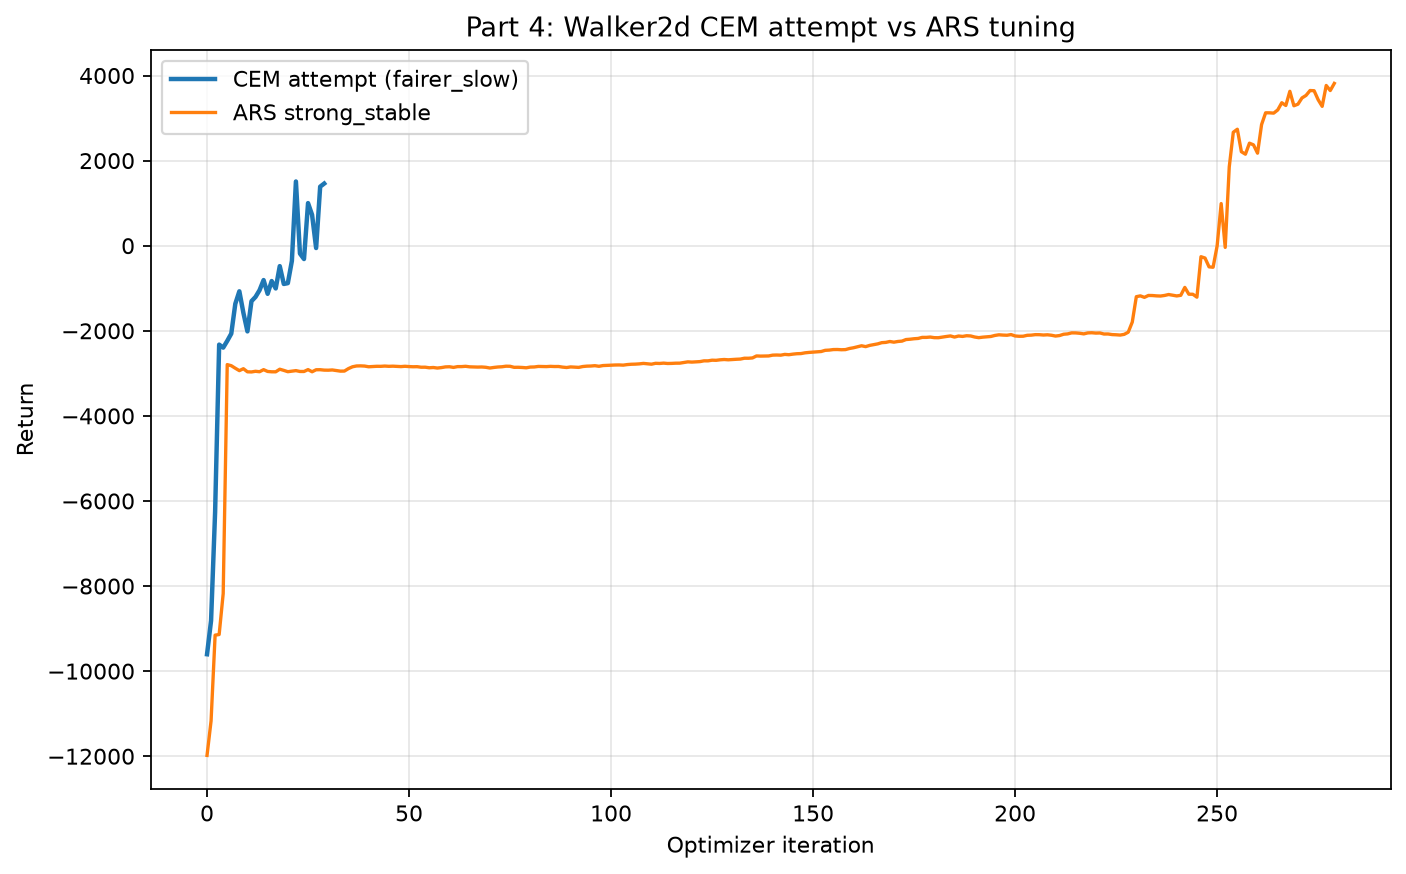
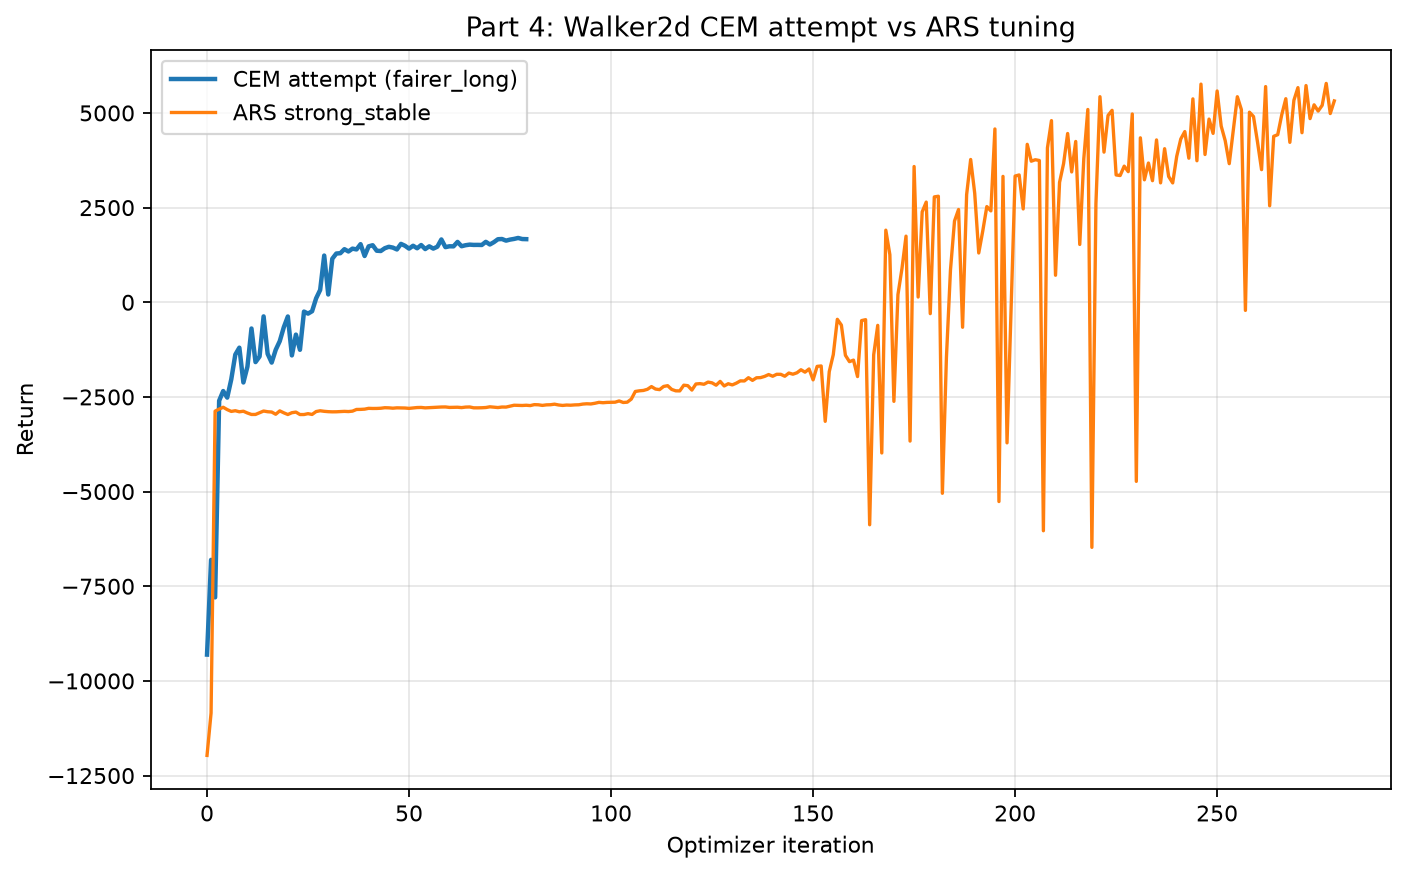
Update Deliverable 4 with long CEM results

diff --git a/Deliverable4/run_deliverable4_hpc.py b/Deliverable4/run_deliverable4_hpc.py
@@ -11,7 +11,7 @@ parser.add_argument(
     default="strong",
     choices=["smoke", "colab_balanced", "colab_sweep", "strong", "strong_stable", "strong_middle"],
     help="ARS tuning mode. Use smoke for a quick test, strong/strong_stable for HPC.")
-parser.add_argument("--cem-mode", default="fairer_slow", choices=["smoke", "extended_colab", "fairer_slow"],
+parser.add_argument("--cem-mode", default="fairer_slow", choices=["smoke", "extended_colab", "fairer_slow", "fairer_long"],
                     help="CEM baseline mode. fairer_slow is suitable for HPC.")
 parser.add_argument("--train-seconds", type=float, default=6.0, help="Training rollout duration in seconds.")
 parser.add_argument("--video-seconds", type=float, default=12.0, help="Rendered video duration in seconds.")
@@ -367,6 +367,7 @@ CEM_CONFIGS_BY_MODE = {
     "smoke": {"iterations": 4, "population": 80, "elite_frac": 0.10},
     "extended_colab": {"iterations": 12, "population": 256, "elite_frac": 0.10},
     "fairer_slow": {"iterations": 30, "population": 384, "elite_frac": 0.10},
+    "fairer_long": {"iterations": 80, "population": 384, "elite_frac": 0.10},
 }
 
 cem_cfg = CEM_CONFIGS_BY_MODE[CEM_MODE]

diff --git a/Deliverable4/README.md b/Deliverable4/README.md
@@ -1,6 +1,6 @@
-# Deliverable 4 — Locomotion Optimisation with ARS and CEM
+# Deliverable 4 — Locomotion Optimization with ARS and CEM
 
-This folder contains the code and results for Deliverable 4 of the Optimisation class project: locomotion optimisation using the Cross-Entropy Method (CEM) and Augmented Random Search (ARS) with MuJoCo MJX and JAX.
+This folder contains the code and results for Deliverable 4 of the Optimization class project: locomotion optimization using Cross Entropy Method (CEM) and Augmented Random Search (ARS) with MuJoCo MJX and JAX.
 
 The original assignment asks for ARS on Humanoid locomotion. In this implementation, the final locomotion experiment is performed on a Walker2d MuJoCo model, which is used as a simpler bipedal locomotion proxy. The goal remains the same: compare the scalability of CEM and ARS on a high-dimensional continuous-control locomotion task.
 
@@ -32,15 +32,15 @@ This script performs:
 * Transfer of the model to MJX
 * Batched rollouts using `jax.vmap`
 * CEM baseline optimization
-* ARS optimisation with state normalisation
+* ARS optimization with state normalization
 * Learning curve generation
 * Policy diagnostics
-* Video rendering of the optimised gait
+* Video rendering of the optimized gait
 * Saving of final metrics and policy parameters
 
 ## Methods
 
-### Cross-Entropy Method
+### Cross Entropy Method
 
 CEM samples a population of candidate policies from a Gaussian distribution. At each iteration, the best-performing elite policies are selected and used to update the sampling distribution.
 
@@ -50,7 +50,7 @@ In this project, CEM is used as a baseline attempt on the locomotion task. It im
 
 ARS evaluates random perturbations of a linear policy. For each direction, the positive and negative perturbations are tested, and the policy is updated using the best-performing directions.
 
-The implemented ARS version uses state normalisation and evaluates perturbations in parallel using MJX and JAX. This makes it more scalable than CEM for locomotion.
+The implemented ARS version uses state normalization and evaluates perturbations in parallel using MJX and JAX. This makes it more scalable than CEM for locomotion.
 
 ## Hyperparameter tuning
 
@@ -140,7 +140,7 @@ The final experiment was run on a GPU using JAX/MJX batched rollouts. This great
 The final report discusses:
 
 * why ARS scales better than CEM,
-* the effect of JAX/MJX parallelisation,
+* the effect of JAX/MJX parallelization,
 * the sample-efficiency comparison,
 * the limitations of using Walker2d instead of the full Humanoid model,
 * and the final locomotion performance.